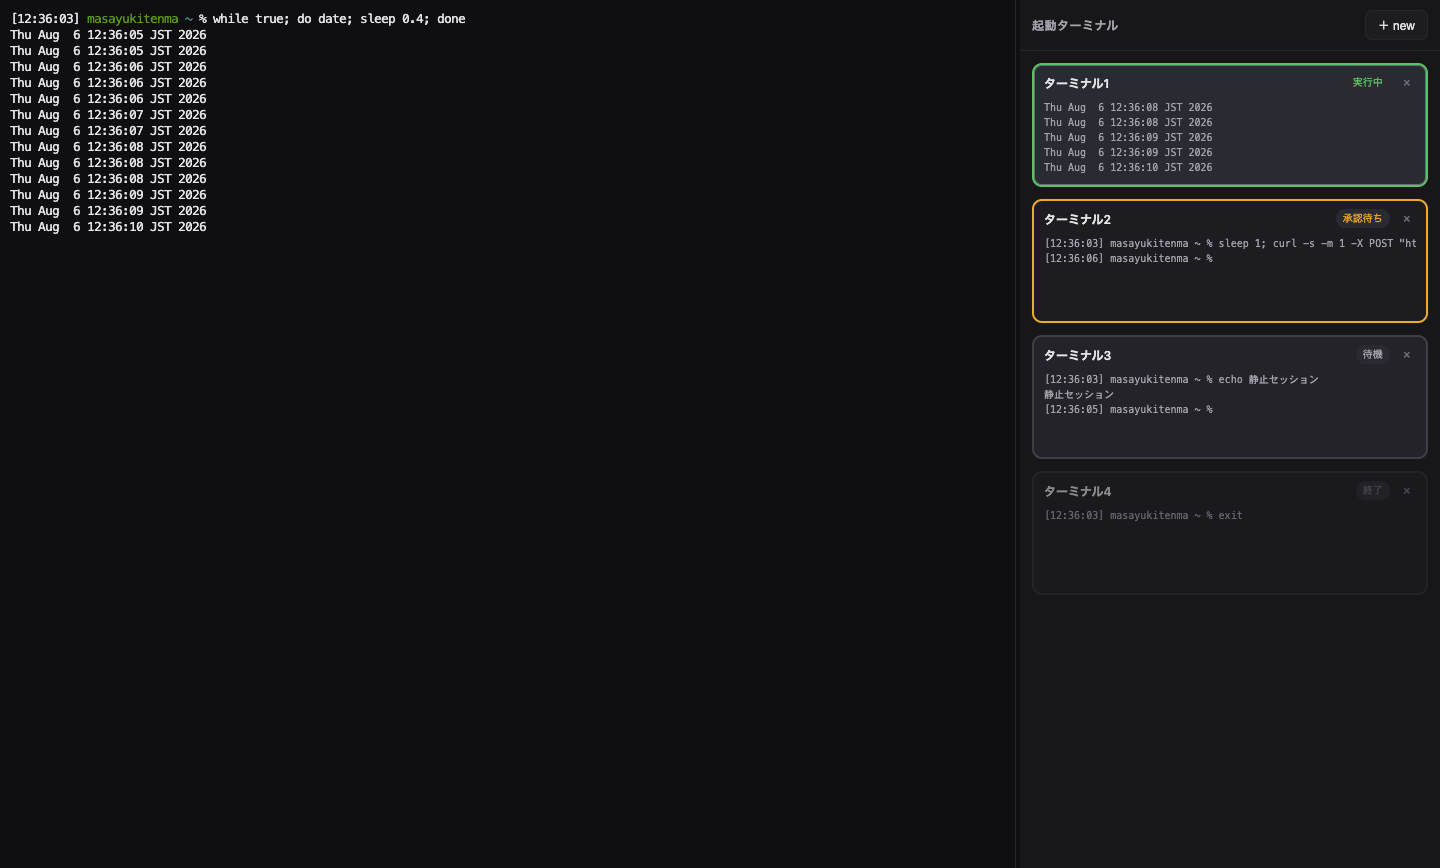
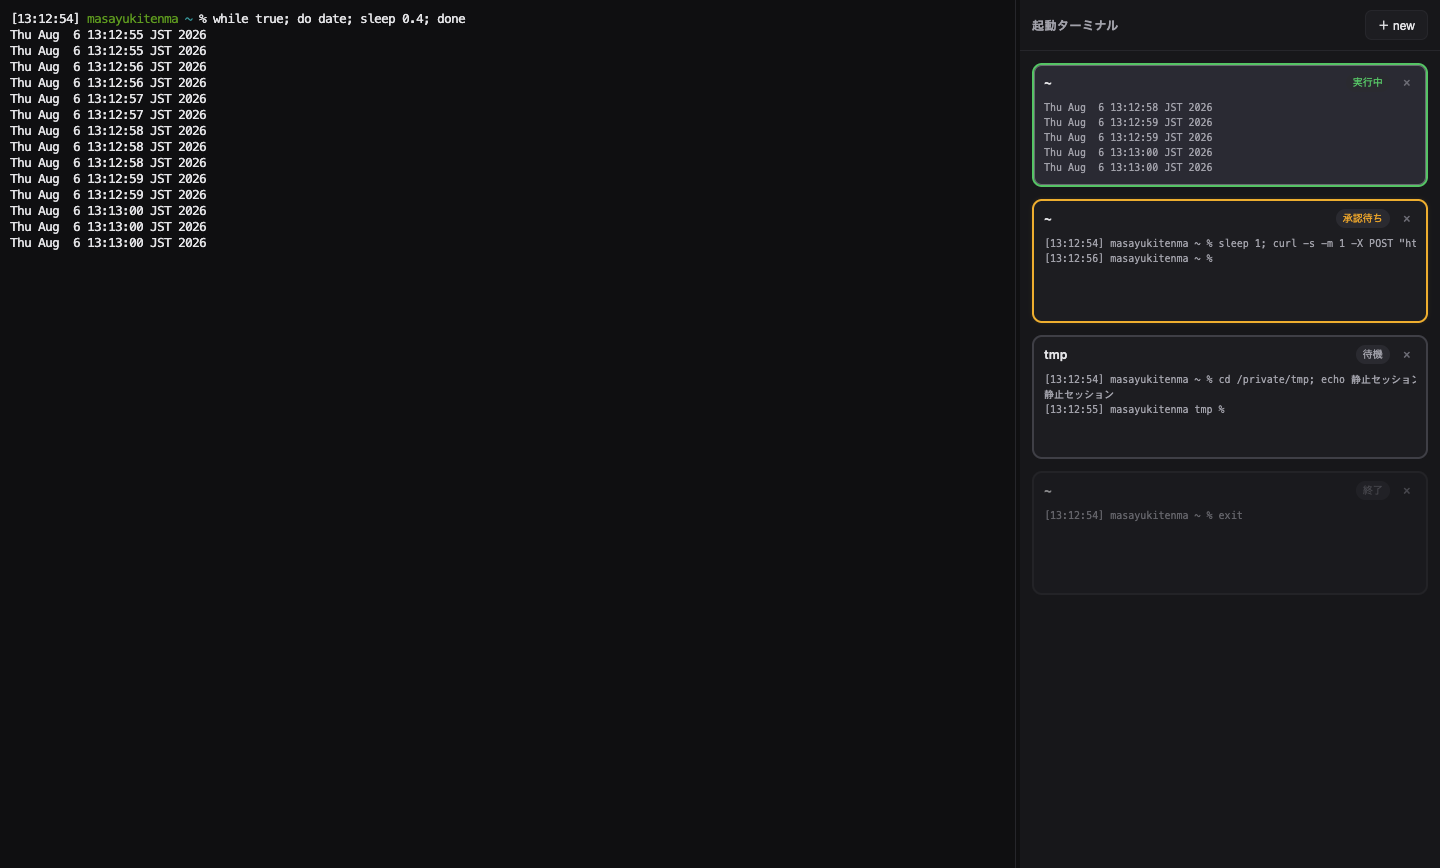
カードタイトルをセッションの現在ディレクトリ名に変更
「ターミナルN」の連番はどのセッションか分からないため、シェルの作業
ディレクトリを追跡してフォルダ名(ホームは ~)を表示する。
- lsof による 2 秒周期のポーリング(素の zsh で動作)
- OSC 7 を受けた場合は即時反映
- ツールチップに ターミナル番号 + フルパス(~ 略記)
- README のスクリーンショットを更新

diff --git a/src/main/sessions.ts b/src/main/sessions.ts
@@ -1,4 +1,6 @@
+import {execFile} from 'node:child_process'
 import * as os from 'node:os'
+import * as path from 'node:path'
 import {spawn, type IPty} from 'node-pty'
 import {Terminal} from '@xterm/headless'
 import {SerializeAddon} from '@xterm/addon-serialize'
@@ -9,6 +11,7 @@ const PREVIEW_SCAN_LIMIT = 200
 const ACTIVITY_WINDOW_MS = 2500
 const HOOK_RUNNING_STALE_MS = 60_000
 const TICK_MS = 700
+const CWD_POLL_MS = 2000
 const SCROLLBACK = 3000
 const SNAPSHOT_SCROLLBACK = 2000
 // フロー制御: renderer が未消化のバイト数(UTF-16 長)がこの閾値を超えたら PTY を止める
@@ -20,6 +23,7 @@ type HookState = 'running' | 'attention' | 'idle'
 interface Session {
   id: string
   index: number
+  cwd: string
   pty: IPty
   term: Terminal
   serialize: SerializeAddon
@@ -52,6 +56,12 @@ export class SessionManager {
 
   constructor(private hookPort: number) {
     setInterval(() => this.emitIfChanged(false), TICK_MS).unref()
+    // シェルの現在ディレクトリを追跡してカードタイトルに反映する
+    setInterval(() => {
+      for (const s of this.sessions.values()) {
+        if (!s.exited) this.refreshCwd(s)
+      }
+    }, CWD_POLL_MS).unref()
   }
 
   create(): SessionInfo {
@@ -93,6 +103,7 @@ export class SessionManager {
     const session: Session = {
       id,
       index,
+      cwd: os.homedir(),
       pty,
       term,
       serialize,
@@ -113,6 +124,18 @@ export class SessionManager {
     // OSC 9 (iTerm 系の通知シーケンス) も要注目として拾う
     term.parser.registerOscHandler(9, () => {
       if (this.activeId !== session.id) session.bellAt = Date.now()
+      return true
+    })
+    // OSC 7 (シェル統合の cwd 通知) があれば即時にタイトルへ反映
+    term.parser.registerOscHandler(7, (data) => {
+      try {
+        const u = new URL(data)
+        if (u.protocol === 'file:' && u.pathname) {
+          session.cwd = decodeURIComponent(u.pathname)
+        }
+      } catch {
+        // 不正な URL は無視
+      }
       return true
     })
     pty.onData((data) => this.handlePtyData(session, data))
@@ -342,10 +365,28 @@ export class SessionManager {
     return lines
   }
 
+  /** シェルプロセスの現在の作業ディレクトリを lsof で取得(macOS、失敗は無視) */
+  private refreshCwd(s: Session): void {
+    execFile(
+      '/usr/sbin/lsof',
+      ['-a', '-p', String(s.pty.pid), '-d', 'cwd', '-Fn'],
+      {timeout: 3000},
+      (err, stdout) => {
+        if (err || s.exited) return
+        const line = stdout.split('\n').find((l) => l.startsWith('n'))
+        if (line && line.length > 1) s.cwd = line.slice(1)
+      },
+    )
+  }
+
   private toInfo(s: Session): SessionInfo {
+    const home = os.homedir()
+    const title = s.cwd === home ? '~' : path.basename(s.cwd) || s.cwd
+    const abbrev = s.cwd.startsWith(home) ? `~${s.cwd.slice(home.length)}` : s.cwd
     return {
       id: s.id,
-      title: `ターミナル${s.index}`,
+      title,
+      cwd: `ターミナル${s.index} — ${abbrev}`,
       state: this.stateOf(s),
       preview: this.previewOf(s),
     }

diff --git a/src/main/devshot.ts b/src/main/devshot.ts
@@ -46,7 +46,7 @@ export function maybeRunDevshot(win: BrowserWindow, sm: SessionManager): void {
         b.id,
         'sleep 1; curl -s -m 1 -X POST "http://127.0.0.1:$CLAUDE_TERM_PORT/state/$CLAUDE_TERM_SESSION/attention"\r',
       )
-      sm.writeTo(c.id, 'echo 静止セッション\r')
+      sm.writeTo(c.id, 'cd /private/tmp; echo 静止セッション\r')
       sm.writeTo(d.id, 'exit\r')
     })
   }

diff --git a/src/shared/types.ts b/src/shared/types.ts
@@ -3,6 +3,8 @@ export type SessionState = 'running' | 'attention' | 'idle' | 'exited'
 export interface SessionInfo {
   id: string
   title: string
+  /** ツールチップ用の表示(ターミナル番号 + ~ 略記の作業ディレクトリ) */
+  cwd: string
   state: SessionState
   preview: string[]
 }

diff --git a/src/renderer/renderer.ts b/src/renderer/renderer.ts
@@ -116,6 +116,7 @@ function buildCard(s: SessionInfo): HTMLElement {
   const title = document.createElement('span')
   title.className = 'card-title'
   title.textContent = s.title
+  title.title = s.cwd
 
   const state = document.createElement('span')
   state.className = `card-state ${s.state}`
